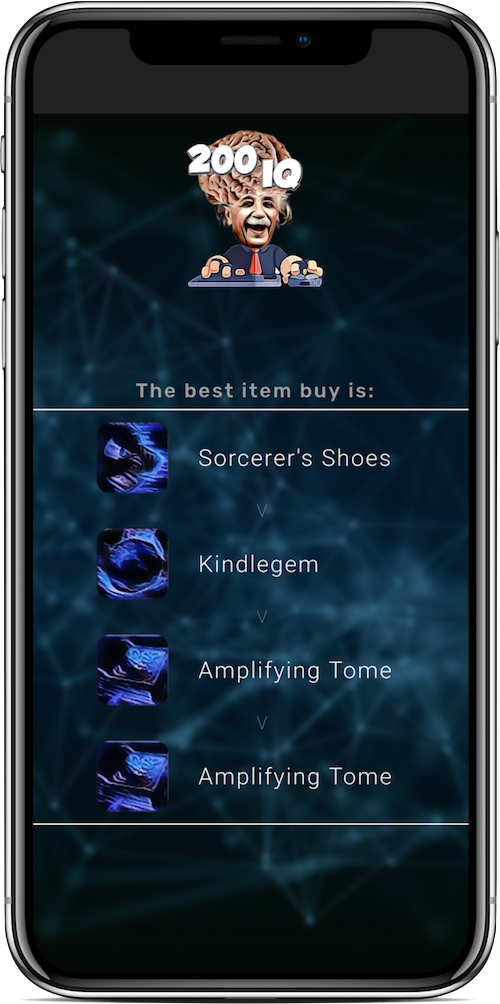
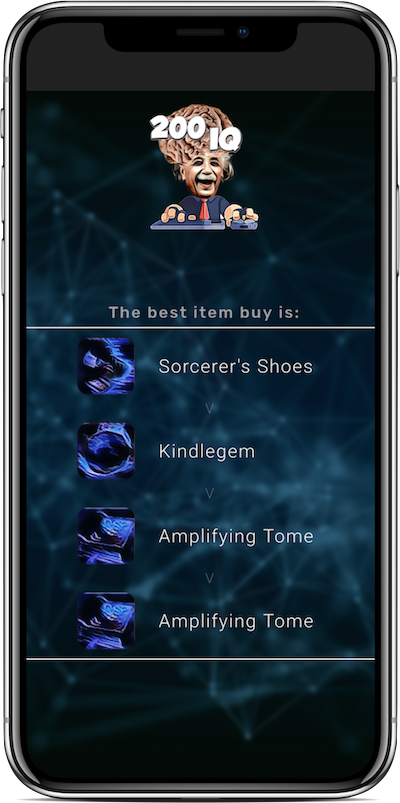
f

diff --git a/public/index.html b/public/index.html
@@ -90,7 +90,7 @@
 
                     </div>
                     <p class="lead" style="font-family: 'muli-regular', sans-serif; font-size: 1.7rem;">
-                        League IQ is an AI that tells you the best item buy based on your champ, gold, existing items and enemy team
+                        League IQ is the #1 League of Legends build recommendation AI
                     </p>
                 </div>
 

diff --git a/public/css/main.css b/public/css/main.css
@@ -1557,7 +1557,7 @@ h1.intro-header::before {
 
 .home-image-right img {
   vertical-align: bottom;
-  width: 75%;
+  width: 65%;
 }
 
 
